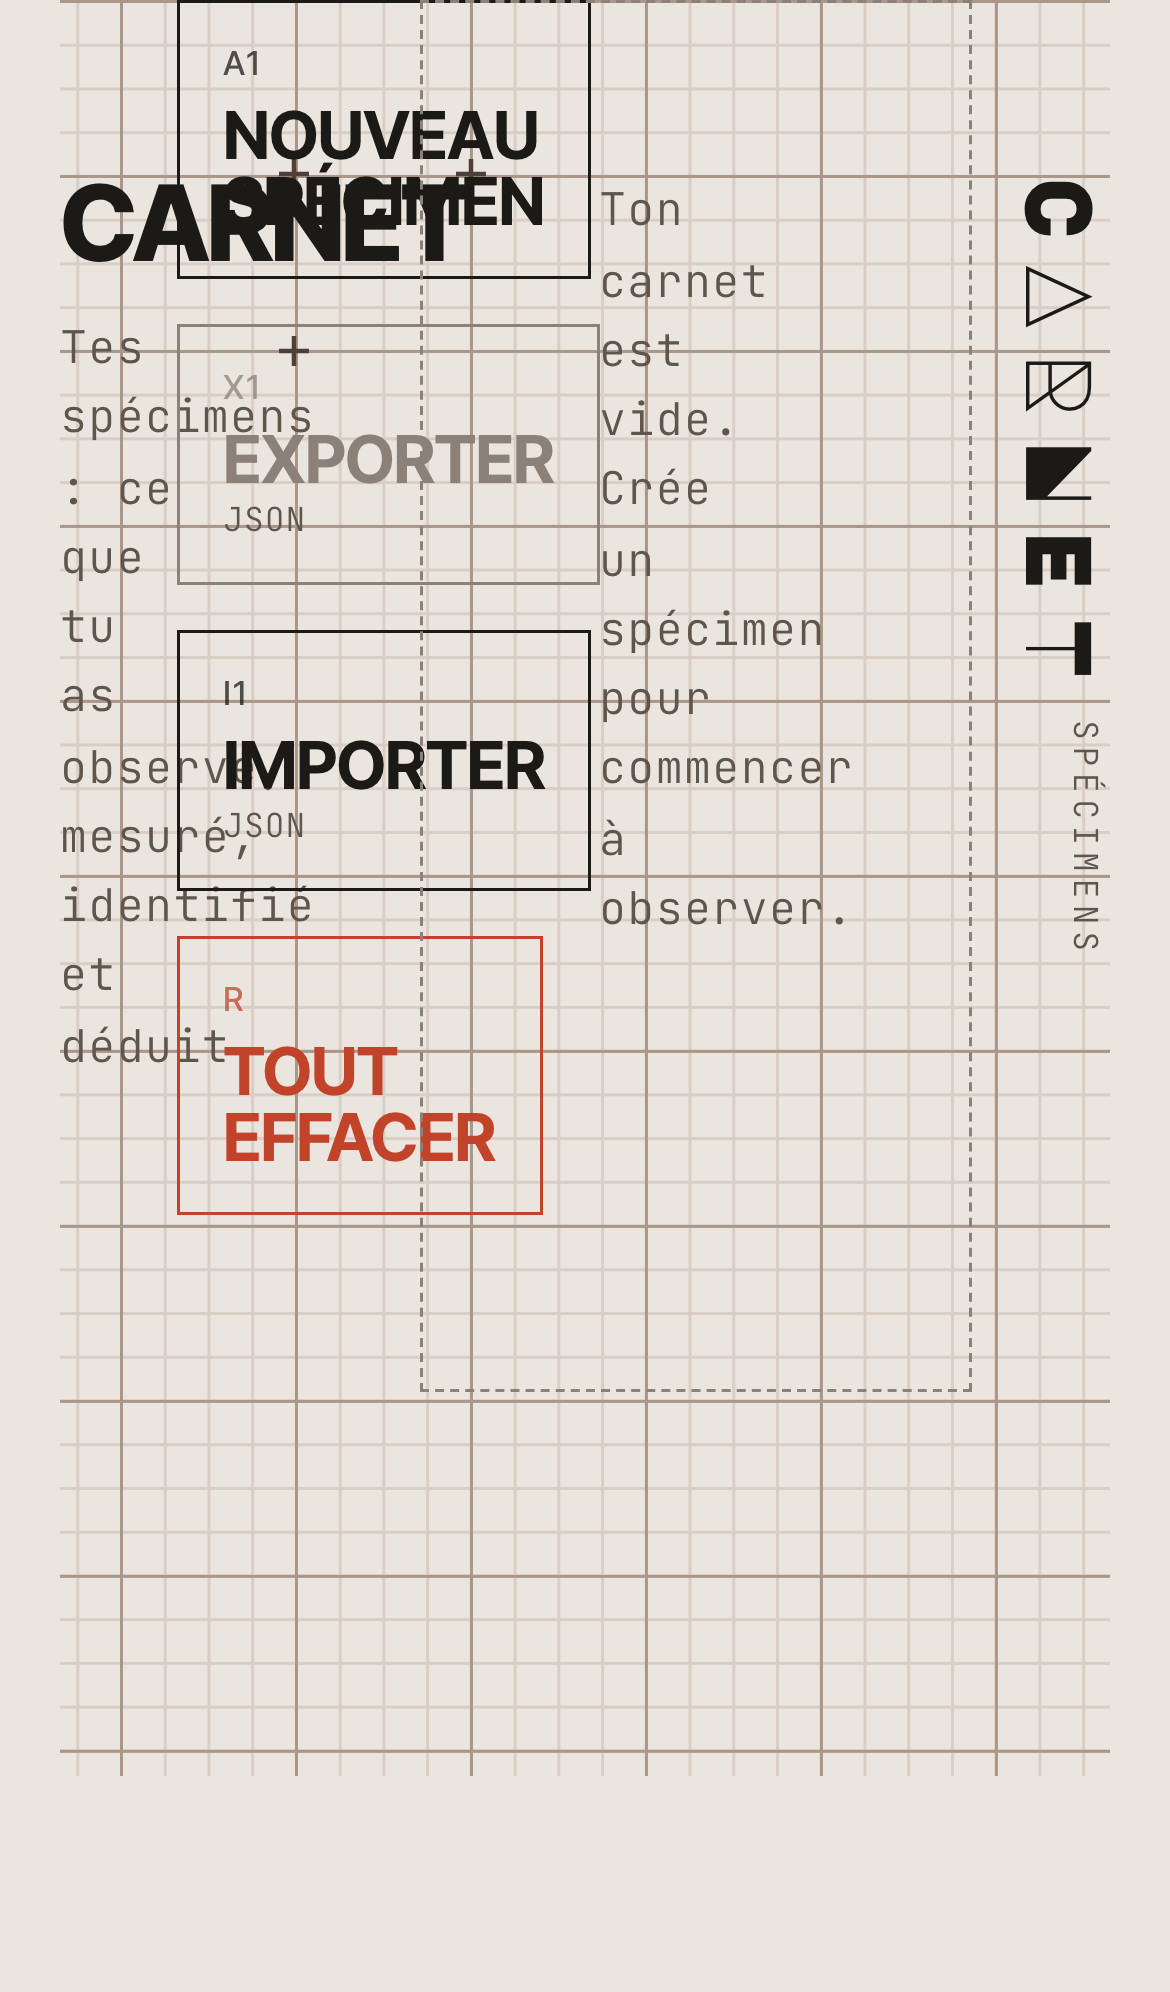
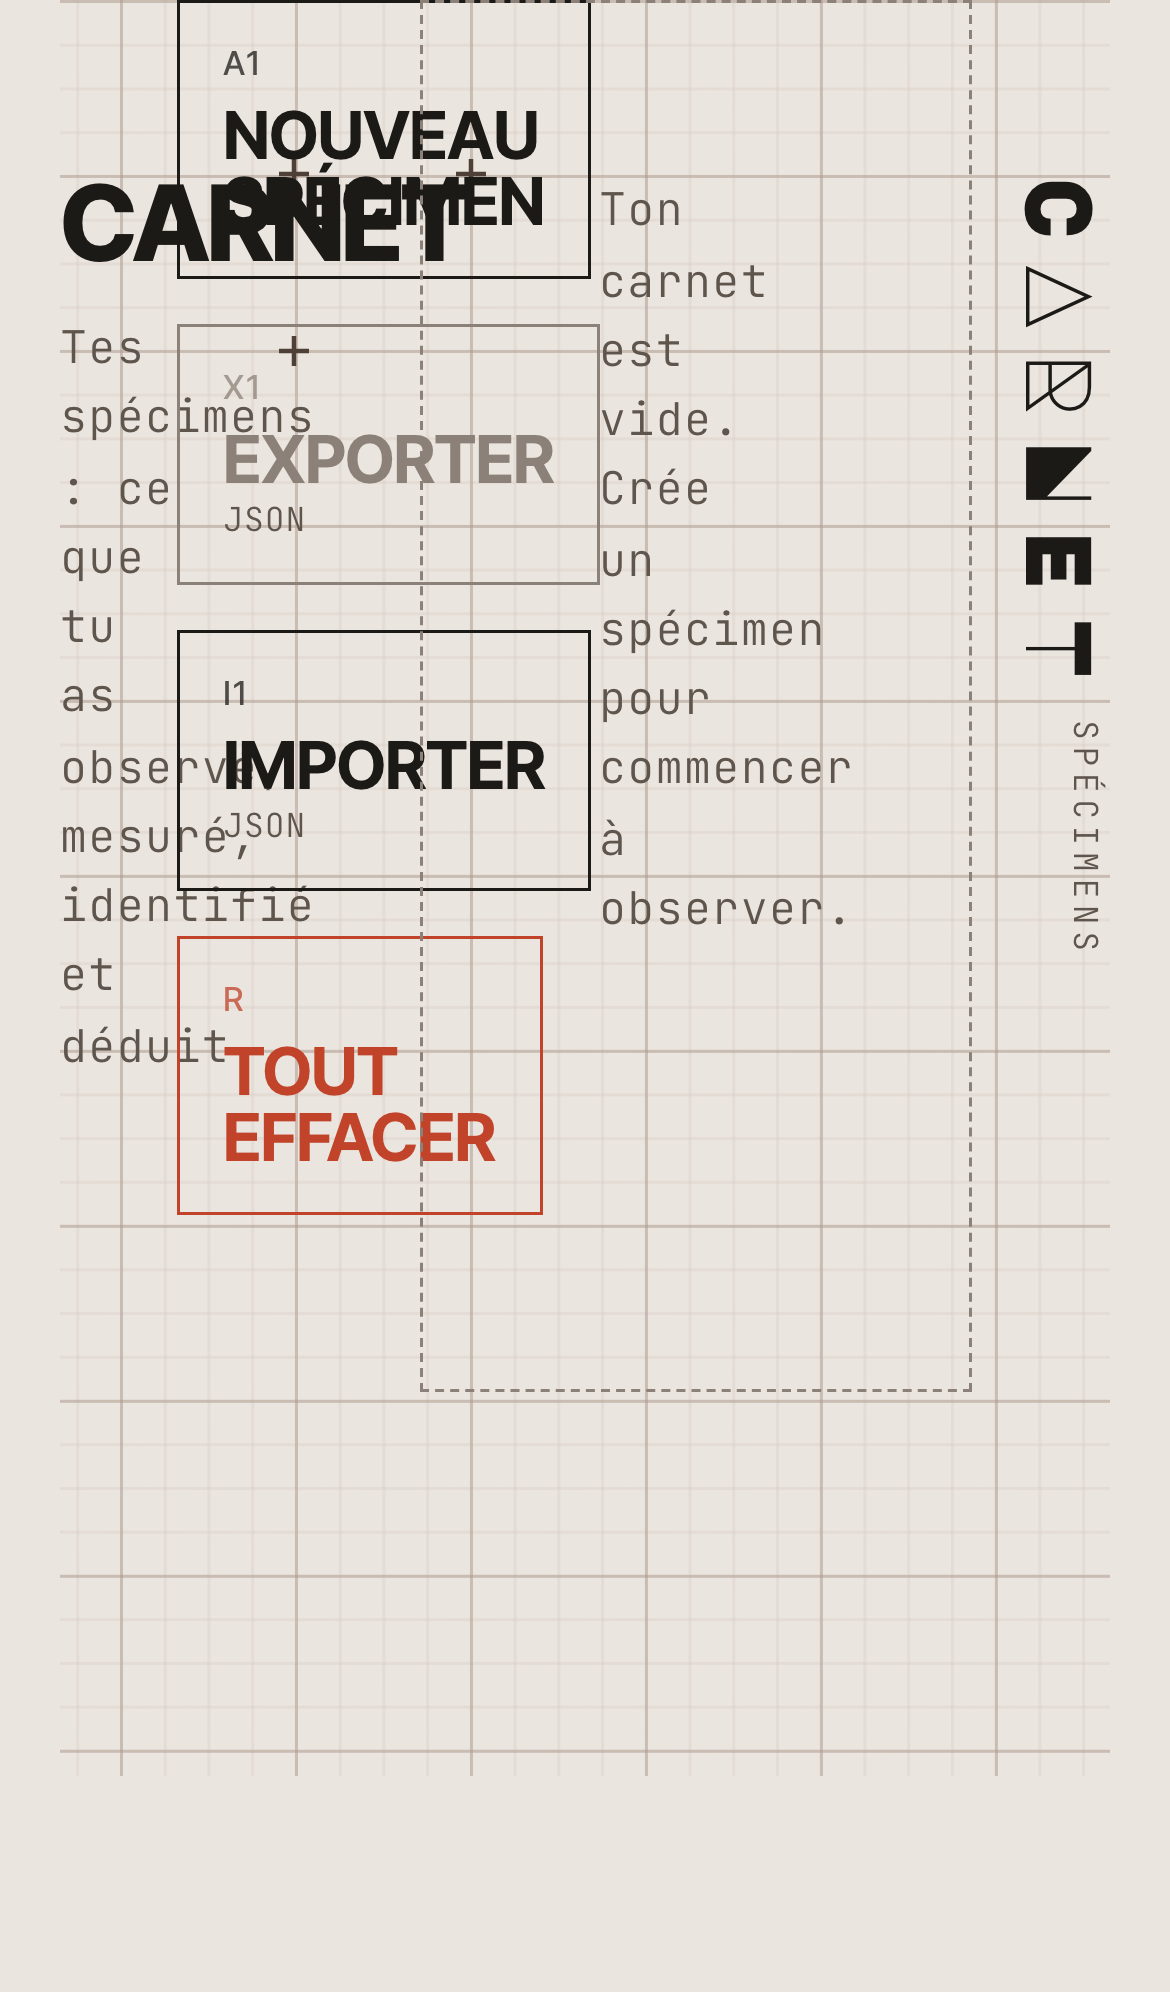
style(papier): fond millimétré plus discret et sur toute la page
Opacité des lignes réduite (alpha abaissé) et --min-height: 100% pour que le
papier couvre toute la page, y compris sur mobile et quand le contenu est court.

diff --git a/src/components/ui/GridPaper.vue b/src/components/ui/GridPaper.vue
@@ -22,20 +22,24 @@ withDefaults(
 <style scoped>
 .grid-paper {
   position: relative;
+  /* Couvre toute la page, y compris si le contenu est court (mobile compris). */
+  min-height: 100%;
   background-color: var(--paper);
+  /* Opacité réduite : lignes plus discrètes (alpha abaissé). */
   background-image:
     /* lignes majeures (encre taupe) */
-    linear-gradient(to right, var(--grid-major) var(--line), transparent var(--line)),
-    linear-gradient(to bottom, var(--grid-major) var(--line), transparent var(--line)),
+    linear-gradient(to right, rgba(169, 151, 138, 0.45) var(--line), transparent var(--line)),
+    linear-gradient(to bottom, rgba(169, 151, 138, 0.45) var(--line), transparent var(--line)),
     /* lignes mineures */
-    linear-gradient(to right, var(--grid-minor) var(--line), transparent var(--line)),
-    linear-gradient(to bottom, var(--grid-minor) var(--line), transparent var(--line));
+    linear-gradient(to right, rgba(216, 206, 197, 0.4) var(--line), transparent var(--line)),
+    linear-gradient(to bottom, rgba(216, 206, 197, 0.4) var(--line), transparent var(--line));
   background-size:
     var(--cell) var(--cell),
     var(--cell) var(--cell),
     var(--minor) var(--minor),
     var(--minor) var(--minor);
-  /* La grille est calée sur la marge gauche/haut. */
+  /* La grille est calée sur la marge gauche/haut et se répète sur toute la surface. */
+  background-repeat: repeat;
   background-position:
     var(--margin) 0,
     0 0,
